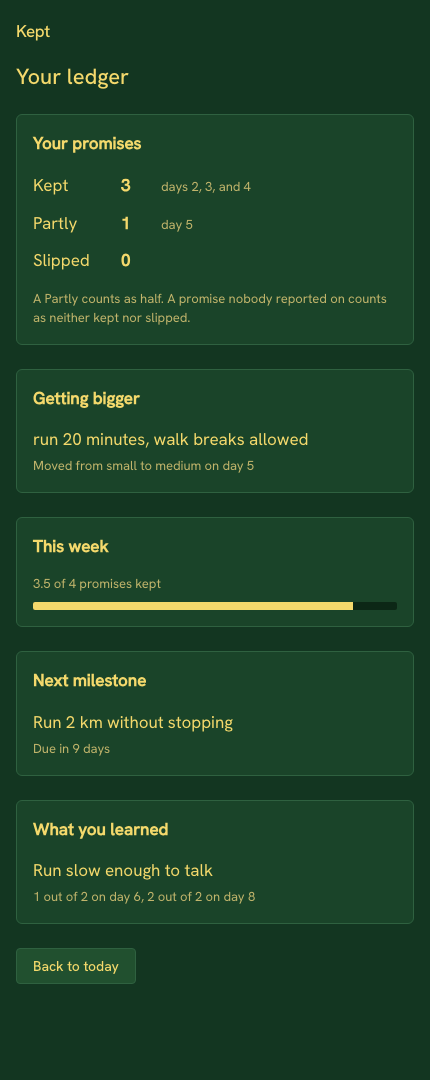
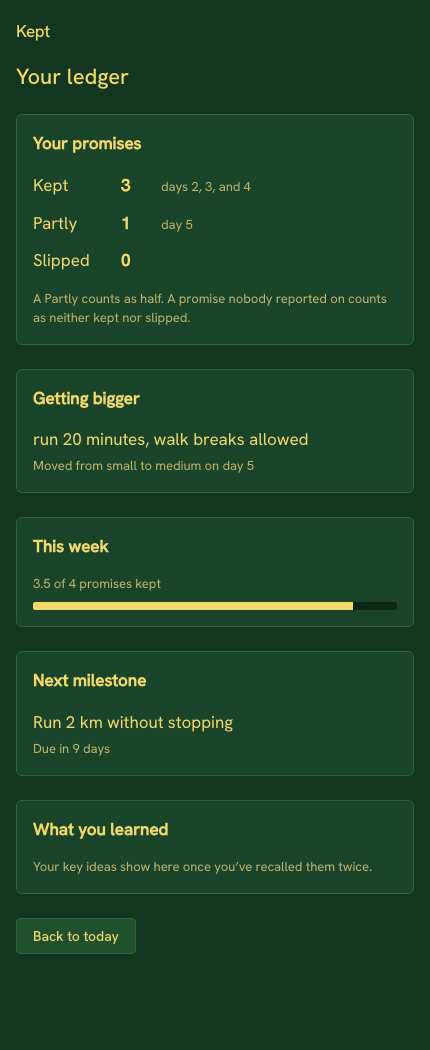
fix(act): keep Learn's stub recall scores out of the ledger
Drop key ideas with a stub id, as the results page does, so testers see the
empty state rather than Sara's scores until #33 lands. Nothing needs switching
when it does.

Changelog: None

diff --git a/src/lib/ledger.ts b/src/lib/ledger.ts
@@ -1,5 +1,5 @@
 import { addDays, dayNumber, type KeptDay } from './kept-day'
-import type { ActionSize } from './learn/plan'
+import type { ActionSize, RecallProgress } from './learn/plan'
 import type { ReportAnswer } from './report'
 
 // The user's ledger (docs/product/walkthrough.md, "Day 5: the ledger"), worked out
@@ -8,6 +8,9 @@ import type { ReportAnswer } from './report'
 const WEEK_DAYS = 7
 const PARTLY_VALUE = 0.5
 const SIZES: readonly ActionSize[] = ['small', 'medium', 'large']
+// A stub in src/server/learn/learn.ts marks its ids this way. Sara's made-up
+// scores must never read as the user's own.
+const STUB_ID_PREFIX = 'stub-'
 
 export type LedgerEvent =
 	| {
@@ -133,4 +136,9 @@ export function nextMilestone<Milestone extends { readonly week: number }>({
 		.filter(({ week }) => week * WEEK_DAYS >= currentDay)
 		.toSorted((a, b) => a.week - b.week)
 	return next == null ? null : { ...next, daysLeft: next.week * WEEK_DAYS - currentDay }
+}
+
+/** Learn's recall progress without its stub's rows, so nothing changes when the real one lands. */
+export function ownRecallProgress({ ideas, leftOut }: RecallProgress): RecallProgress {
+	return { ideas: ideas.filter(({ keyIdeaId }) => !keyIdeaId.startsWith(STUB_ID_PREFIX)), leftOut }
 }

diff --git a/src/server/today/read-ledger.ts b/src/server/today/read-ledger.ts
@@ -1,6 +1,6 @@
 import 'server-only'
 import { toKeptDay } from '@/lib/kept-day'
-import { buildLedger, nextMilestone } from '@/lib/ledger'
+import { buildLedger, nextMilestone, ownRecallProgress } from '@/lib/ledger'
 import { db } from '@/server/db/client'
 import { LEDGER_EVENT_NAMES, parseLedgerEvent } from '@/server/events/kept-events'
 import { getDueMilestone, getPlan, getRecallProgress } from '@/server/learn/learn'
@@ -37,6 +37,6 @@ export async function readLedger(userId: string) {
 			dueMilestone == null
 				? nextMilestone({ milestones: plan.milestones, signUpDay, today })
 				: { ...dueMilestone, daysLeft: 0 },
-		recallProgress
+		recallProgress: ownRecallProgress(recallProgress)
 	}
 }

diff --git a/e2e/first-check-in.spec.ts b/e2e/first-check-in.spec.ts
@@ -251,6 +251,7 @@ test('a new user goes from sign-up through their first check-in, and each save m
 		await expect(page.getByText('1 of 1 promise kept')).toBeVisible()
 		await expect(page.getByText('day 2', { exact: true })).toBeVisible()
 		await expect(page.getByRole('heading', { name: 'Getting bigger' })).toHaveCount(0)
+		await expect(page.getByText('Your key ideas show here')).toBeVisible()
 		await page.getByRole('link', { name: 'Back to today' }).click()
 		await expect(page).toHaveURL(/\/today$/)
 	})
